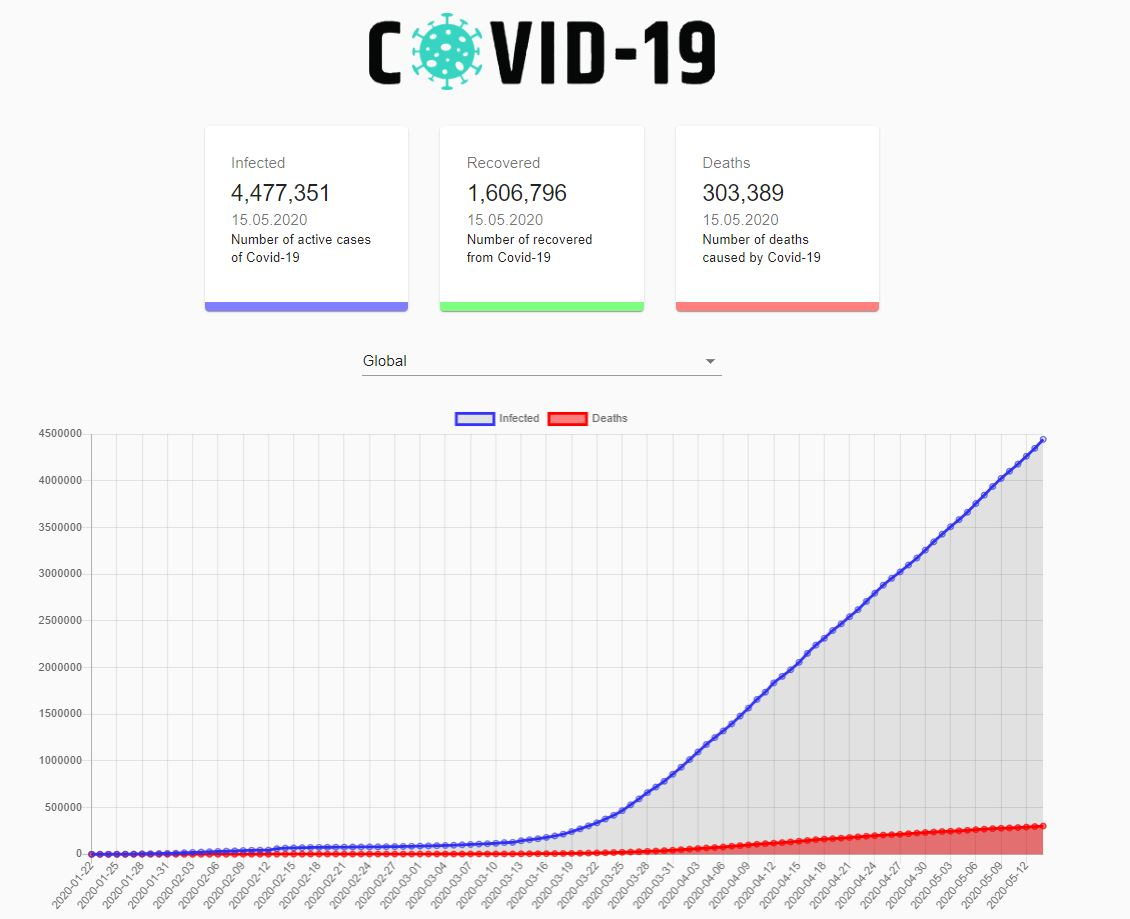
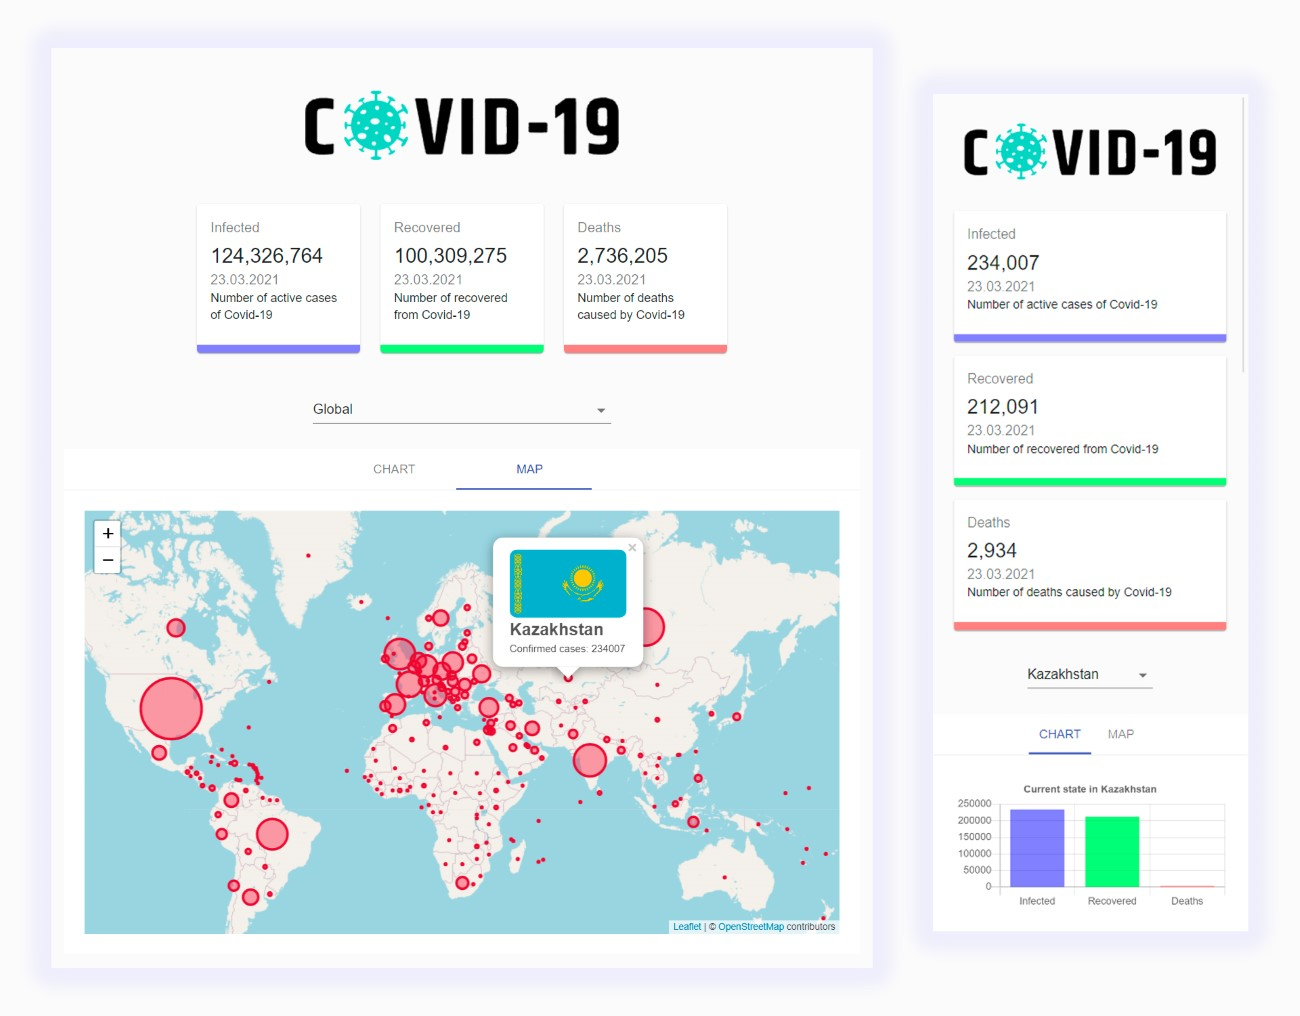
readme-changed-03-2021

diff --git a/README.md b/README.md
@@ -1,7 +1,11 @@
 # COVID-19 Tracker
 
+Used Stack: React, TypeScript, Material-UI, Axios, React-chartjs-2, React Leaflet.
+
+   >  [view demo](https://track-cov19.web.app/) 
+
+This is a simple React application showing the number of confirmed cases of the disease, recovered and died from covid-19. Built on public API from [disease.sh](https://disease.sh).
+
 ![COVID-19 Tracker preview](covid.JPG)
 
-This is a simple React application showing the number of confirmed cases of the disease, recovered and died from covid-19. Built on [API](https://covid19.mathdro.id/api) by [mathdroid](https://github.com/mathdroid). 
-
-This serverless application at startup fetch data from API and builds a chart on the received information about the situation with the covid-19 in the world. After that, you can select a country and you will be shown the information in that country.
+This serverless application at startup fetch data from API and builds a chart on the received information about the situation with the covid-19 in the world. After that, you can select a country and you will be shown the information in that country. The number of infected is marked on the map. When you click on the circle, you are shown brief information. 
